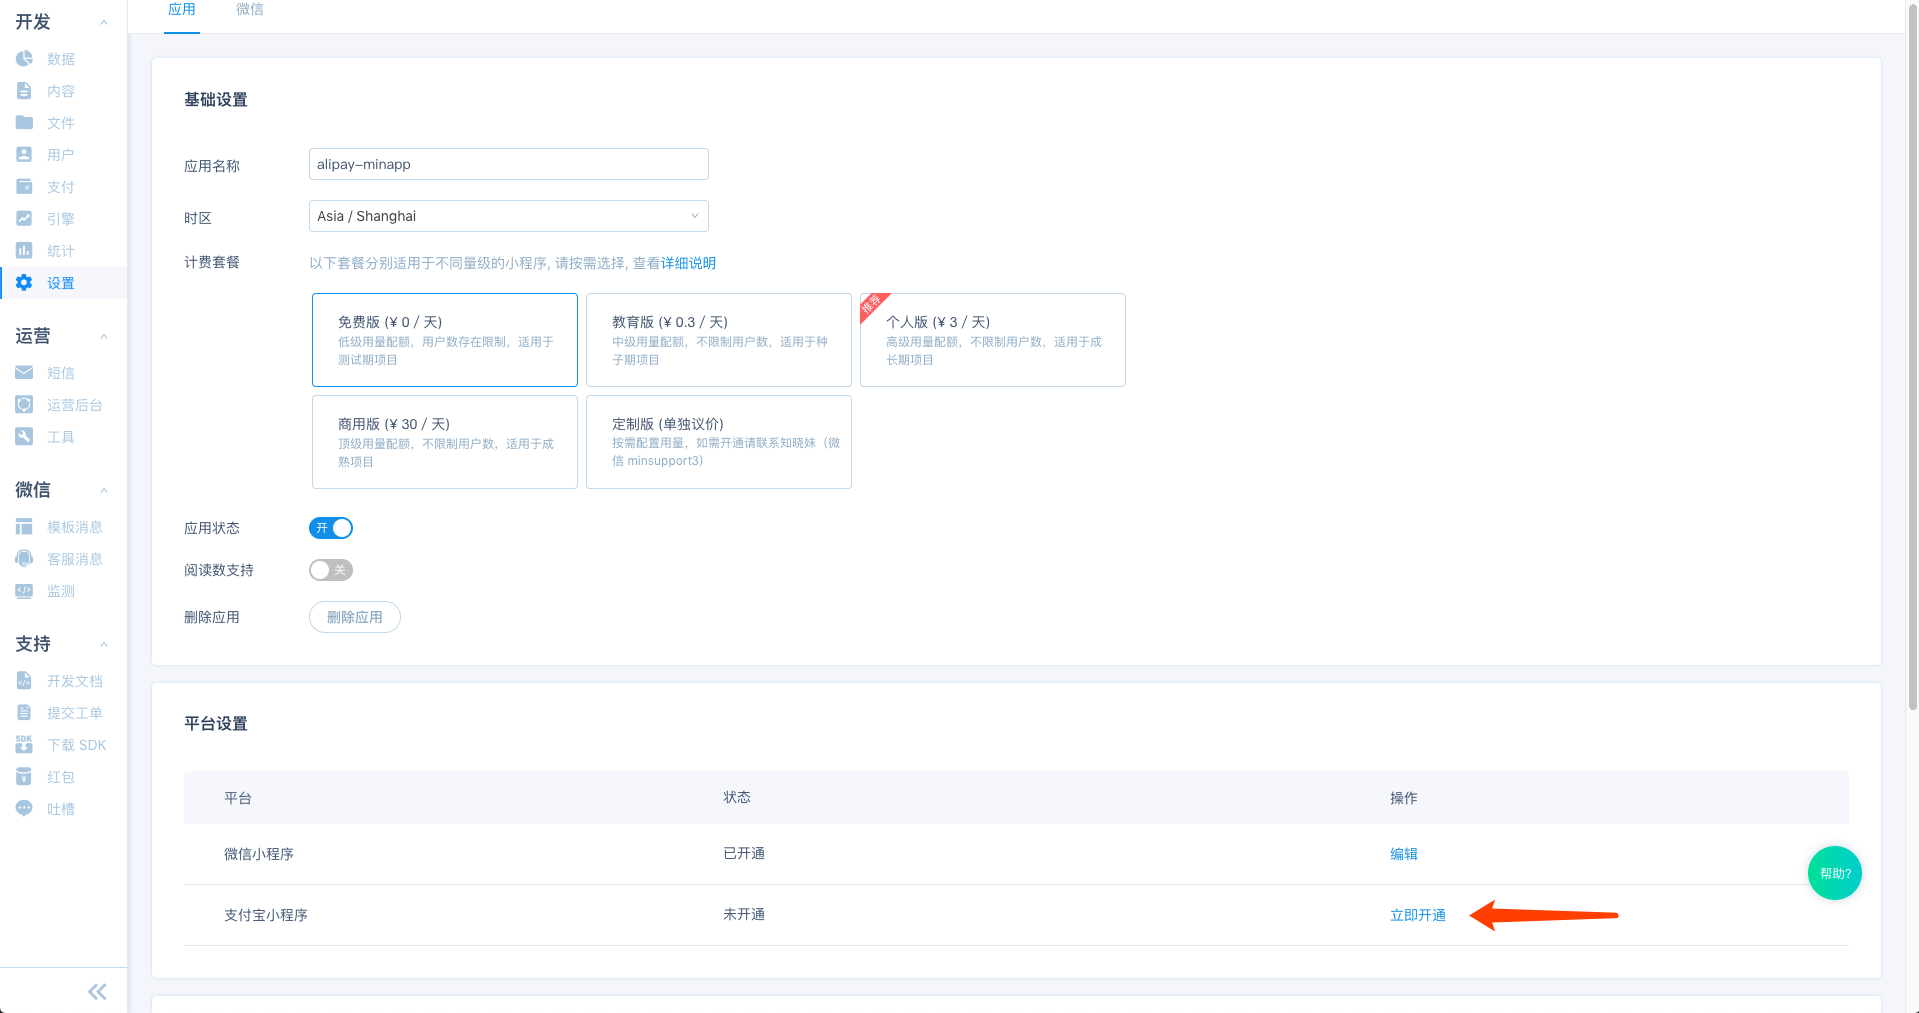
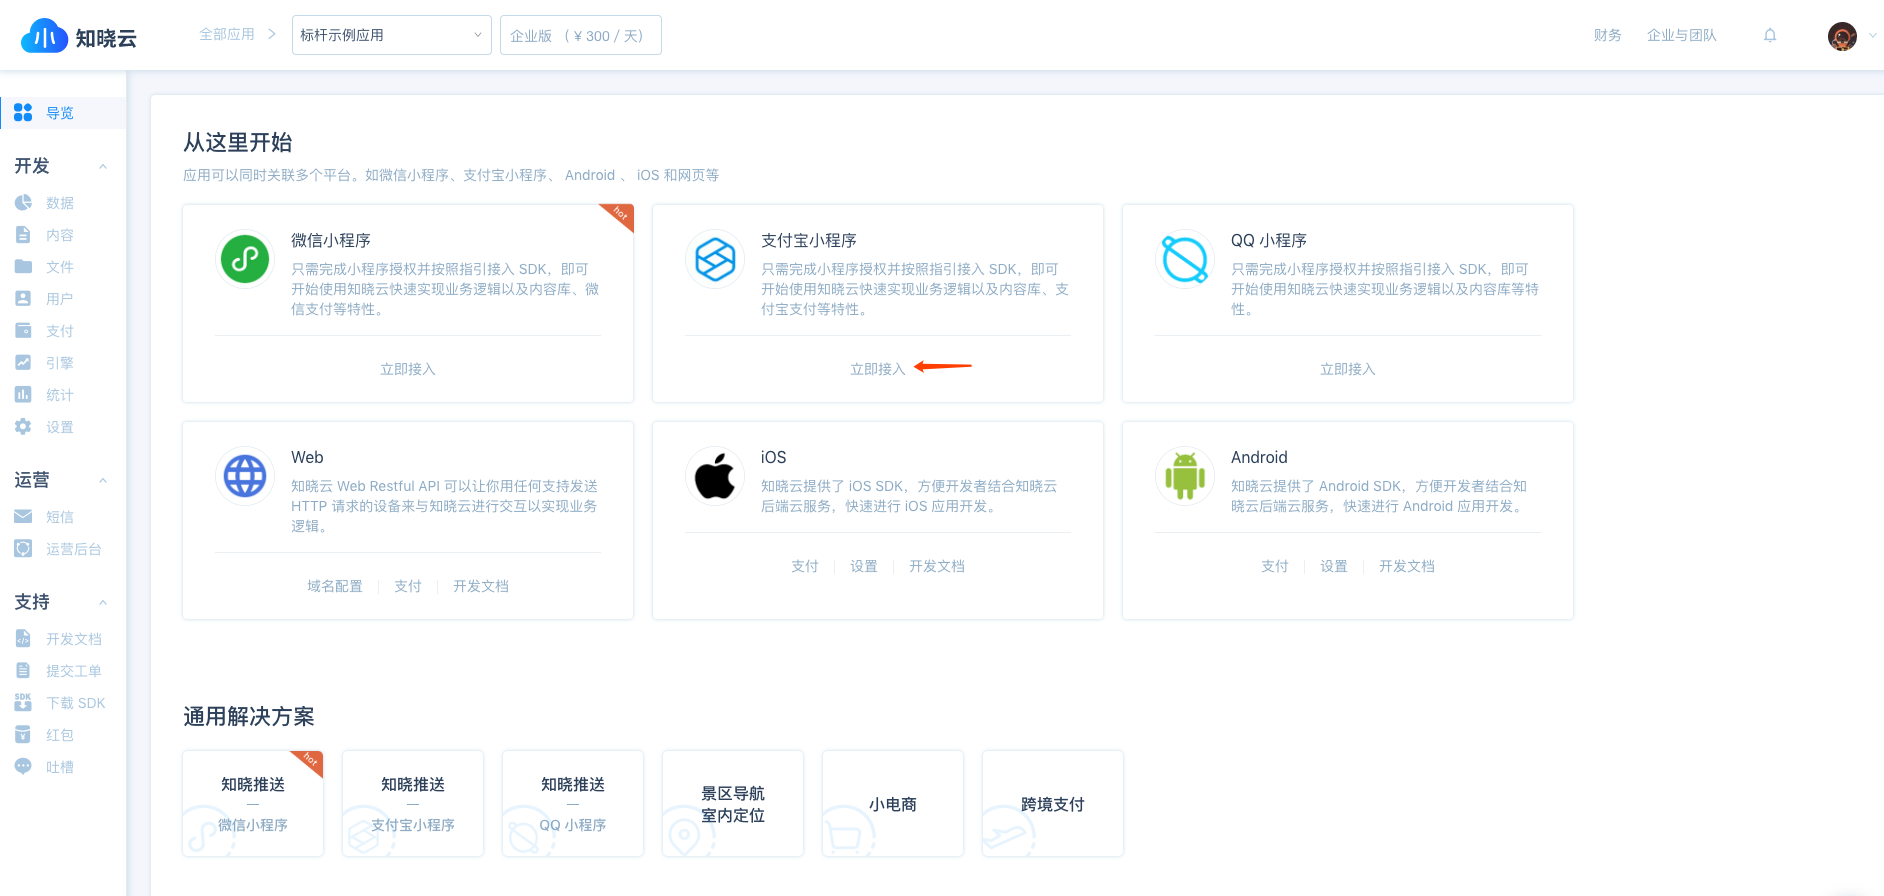
根据刘经理的 CR 修改文档

diff --git a/js-sdk/web/how-to.md b/js-sdk/web/how-to.md
@@ -49,11 +49,9 @@ b. 将下载解压后得到的 SDK js 文件放在项目目录中
 
 通过初始化 SDK ，知晓云服务可以验证当前的应用是否是有效合法的，只有通过验证的应用才能使用 SDK 提供的全部功能。
 
-在[知晓云后台 - 我的应用](https://cloud.minapp.com/admin/profile/)页面获取要接入知晓云服务的 ClientID, 按照如下方式进行 SDK 初始化:
+在[知晓云后台 - 设置 - 应用](https://cloud.minapp.com/dashboard/#/app/settings/info/)页面获取要接入知晓云服务的 ClientID, 按照如下方式进行 SDK 初始化:
 
-![复制 clientID](/images/newbies/get-client-id1.jpeg)
-
-![复制 clientID](/images/newbies/get-client-id2.jpeg)
+![复制 clientID](/images/newbies/get-client-id.png)
 
 ```javascript
 BaaS.init(clientID, {logLevel})

diff --git a/newbies/wechat.md b/newbies/wechat.md
@@ -33,7 +33,7 @@
 
 为了使用知晓云提供的后端服务，进入 dashboard 后，开发者首先需要为知晓云授权。
 
-知晓云在设置模块提供了**一键授权**功能，用户只需到“设置-应用”页的「平台设置」中找到微信小程序平台，点击**立即开通**，并在「登录方法」中打开微信登录方法，接着在“设置-微信”页中点击**立即授权**并在新开授权回调页完成授权即可。
+知晓云在设置模块提供了**一键授权**功能，用户只需在应用“导览”页中找到微信小程序平台，点击**立即接入**，接着在“设置-微信”页中点击**立即授权**并在新开授权回调页完成授权即可。
 
 ![开通微信小程序平台](/images/newbies/open-up-wechat.png)
 

diff --git a/newbies/alipay.md b/newbies/alipay.md
@@ -33,7 +33,7 @@
 
 为了使用知晓云提供的后端服务，进入 dashboard 后，开发者首先需要为知晓云授权。
 
-知晓云在设置模块提供了**一键开通**功能，用户只需进入“设置 - 应用 - 平台设置”，在“支付宝小程序”一栏点击**立即开通**并在新开授权回调页填写配置信息完成授权即可。
+知晓云在设置模块提供了**一键授权**功能，用户只需在应用“导览”页中找到支付宝小程序平台，点击**立即接入**，接着在“设置-支付宝”页中填写配置信息完成授权即可。
 
 ![一键开通](/images/newbies/open-up-alipay.png)
 

diff --git a/newbies/README.md b/newbies/README.md
@@ -14,6 +14,8 @@
 - [QQ 小程序接入指南](/js-sdk/qq/README.md)
 - [Web 接入指南](/js-sdk/web/README.md)
 - [支付宝小程序接入指南](/js-sdk/alipay/README.md)
+- [Android 应用接入指南](/android-sdk/install.md)
+- [iOS 应用接入指南](/ios-sdk/install.md)
 
 ## 使用场景介绍
 
